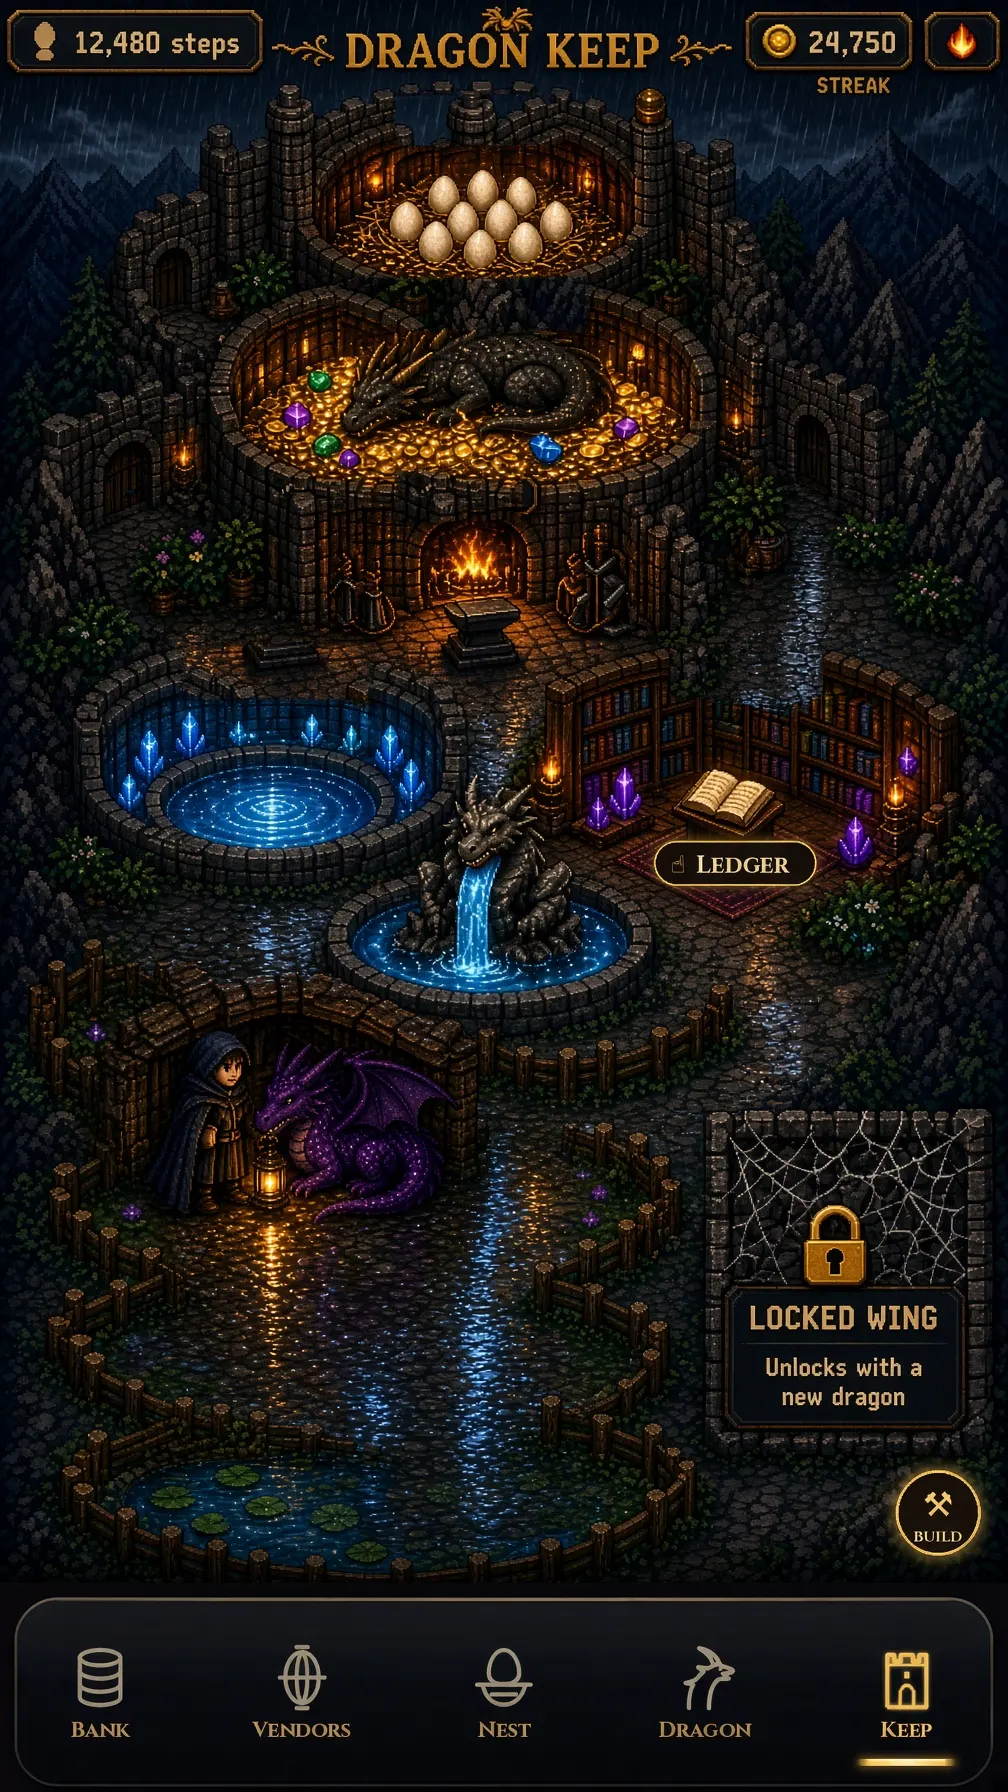
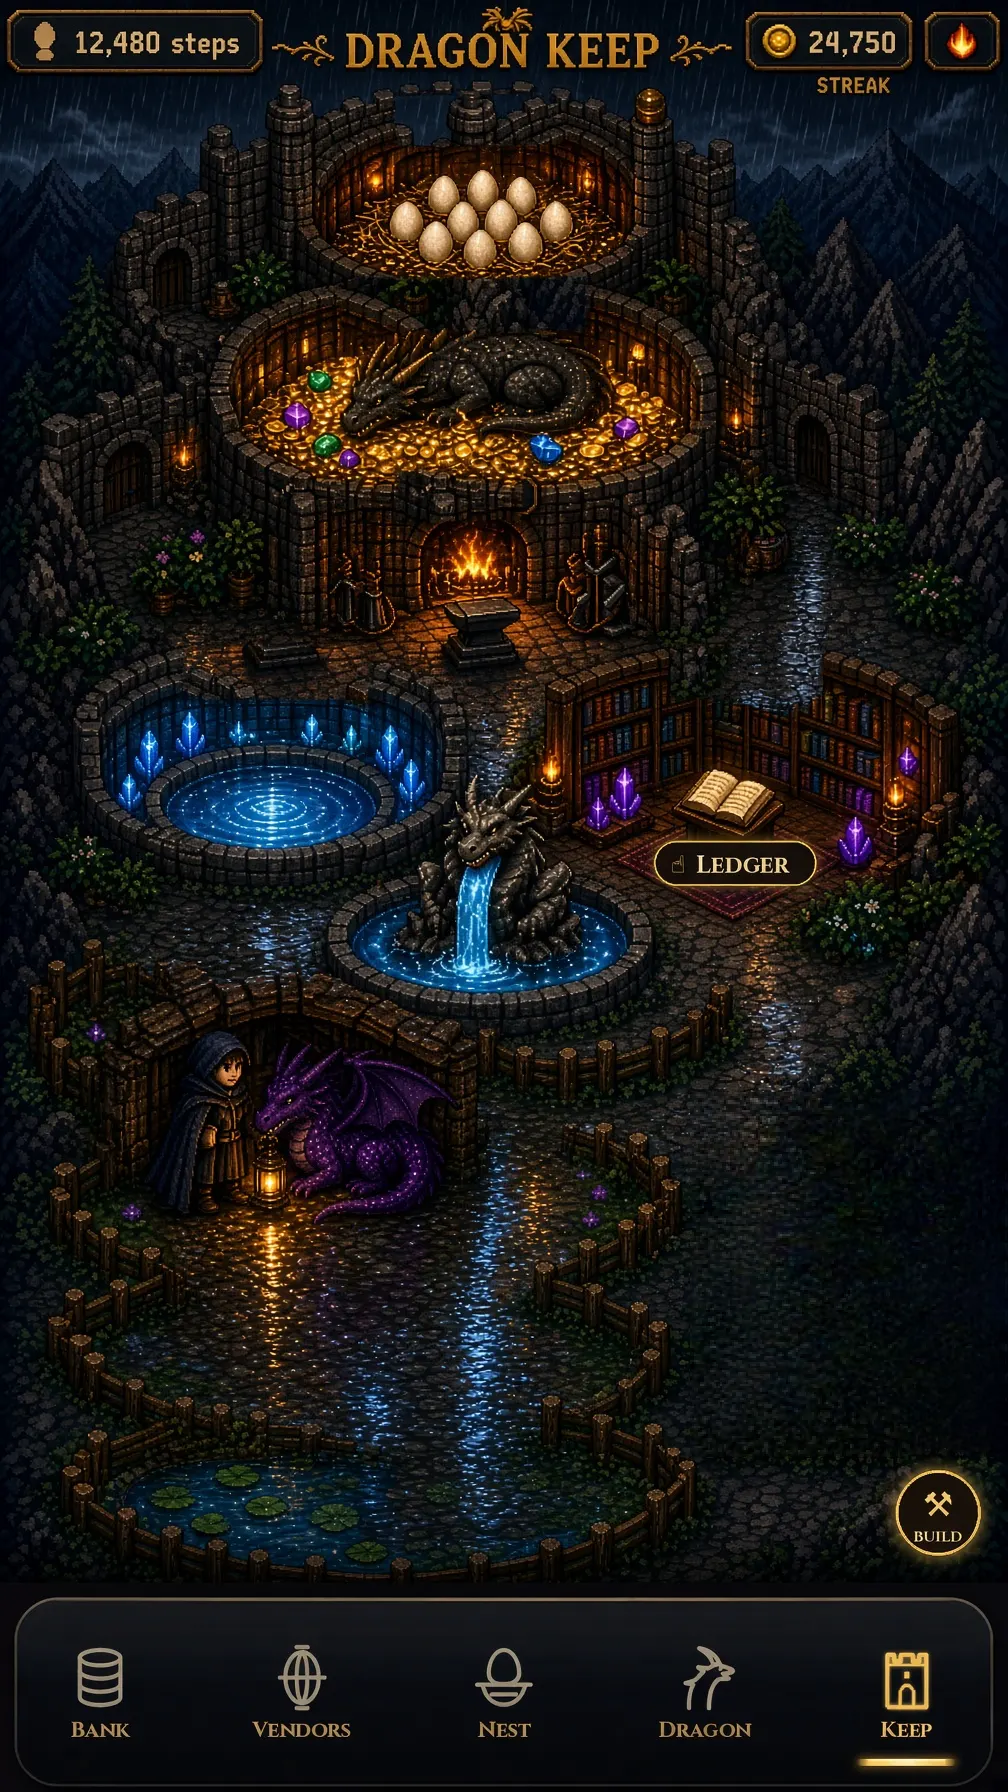
fix: show a live Locked wing plaque in the cleared stone
The painted lock is gone from the keep backgrounds. A plaque sits in the middle of that box and stays on screen at 390 wide. Snow art uses the slightly lower box. Pen plaques still hide when their pen opens.

Changed region(s): [[0.6766, 0.5938, 0.9841, 0.8125]]

diff --git a/index.html b/index.html
@@ -79,6 +79,11 @@ html.keep-open .tabs{position:relative;z-index:2}
 .keep-stage:has(.keep-bg.is-ok) .keep-ground{display:none}
 .pen-lock{position:absolute;left:50%;top:50%;width:88%;transform:translate(-50%,-50%);margin:0;padding:4px 6px;border-radius:8px;border:1px solid var(--gold-lo);background:rgba(12,16,21,.86);color:var(--gold-hi);font-size:11px;font-weight:700;line-height:1.25;text-align:center}
 .keep-pen.is-open .pen-lock{display:none}
+/* Cleared wing on the painting. The plaque sits in the middle of that box and leaves when the wing opens. */
+.keep-wing{position:absolute;z-index:3;pointer-events:none}
+.wing-lock{position:absolute;left:50%;top:50%;width:88%;max-width:100%;box-sizing:border-box;transform:translate(-50%,-50%);margin:0;padding:6px 8px;border-radius:8px;border:1px solid var(--gold-lo);background:rgba(12,16,21,.88);color:var(--gold-hi);font-size:12px;font-weight:700;line-height:1.25;text-align:center}
+.wing-lock span{display:block;margin-top:2px;font-size:11px;font-weight:700}
+.keep-wing.is-open{display:none}
 .pen-dragon{position:absolute;padding:0;border:0;background:transparent;line-height:0;transform:translate(-50%,-100%);pointer-events:auto}
 .pen-dragon:focus-visible{outline:2px solid var(--gold-hi);outline-offset:2px;border-radius:10px}
 .pen-sprite{position:relative;display:block;background-repeat:no-repeat;background-position:left center}
@@ -691,6 +696,7 @@ button.dexchip{cursor:pointer}
         <img class="keep-bg keep-art" alt="" draggable="false">
         <div class="keep-world" id="keepWorld"></div>
       </div>
+      <div class="keep-wing" id="keepWing"><p class="wing-lock">Locked wing<span>Unlocks with a new dragon</span></p></div>
       <button type="button" class="keep-spot keep-forge" data-act="keep-forge" aria-label="Forge" hidden></button>
       <button type="button" class="keep-spot keep-pool" data-act="keep-pool" aria-label="Moon Pool" hidden></button>
       <button type="button" class="keep-spot keep-build" data-act="keep-build" aria-label="Build"></button>
@@ -2268,6 +2274,9 @@ const KEEP_BUILD = {x:88.6, y:81.4, w:8.8, h:5.2};
 const KEEP_FORGE = {x:42.0, y:30.2, w:13.5, h:7.8};
 const KEEP_POOL = {x:16.2, y:42.4, w:18.0, h:5.2};
 const KEEP_STREAK = {x:22, y:4.15, w:52};
+/* Cleared stone where the painted lock was. Snow art sits 8px lower. */
+const KEEP_WING = {x:68.5, y:60.9, w:31.2, h:20.3};
+const KEEP_WING_SNOW_Y = 61.4;
 const PEN_TALL = [32, 36, 40, 44];
 let spriteBook = null, spriteAsked = false;
 const spriteMode = new Map();
@@ -2459,8 +2468,15 @@ function measureKeepWorld(){
   placeKeepBox($(".keep-forge"), rw, rh, KEEP_FORGE);
   placeKeepBox($(".keep-pool"), rw, rh, KEEP_POOL);
   placeKeepBox($("#keepStreak"), rw, rh, KEEP_STREAK);
+  placeKeepBox($("#keepWing"), rw, rh, wingBox());
   return true;
 }
+function wingBox(){
+  const snow = typeof skyKind === "string" && skyKind === "snow";
+  return {x:KEEP_WING.x, y:snow ? KEEP_WING_SNOW_Y : KEEP_WING.y, w:KEEP_WING.w, h:KEEP_WING.h};
+}
+/* The wing is not a pen. It stays locked, and the plaque hides if that ever changes. */
+function wingLocked(){ return true; }
 function mountPenShell(){
   const world = $("#keepWorld");
   if (!world || world.dataset.shell) return;
@@ -2582,6 +2598,8 @@ function syncPens(){
     const el = world.querySelector('.keep-pen[data-pen="' + p.id + '"]');
     if (el) el.classList.toggle("is-open", i < open);
   });
+  const wing = $("#keepWing");
+  if (wing) wing.classList.toggle("is-open", !wingLocked());
   const roaming = normKeep(S.keep).roaming;
   const sig = open + "|" + (spriteBook ? "1" : "0") + "|" + penMetrics.cw + "|" + (penStill() ? "s" : "m") + "|"
     + roaming.map(id => { const d = ledgerDragon(id); return id + ":" + (d ? (mutSpriteKey(d) || spriteKey(d)) : ""); }).join(",");
